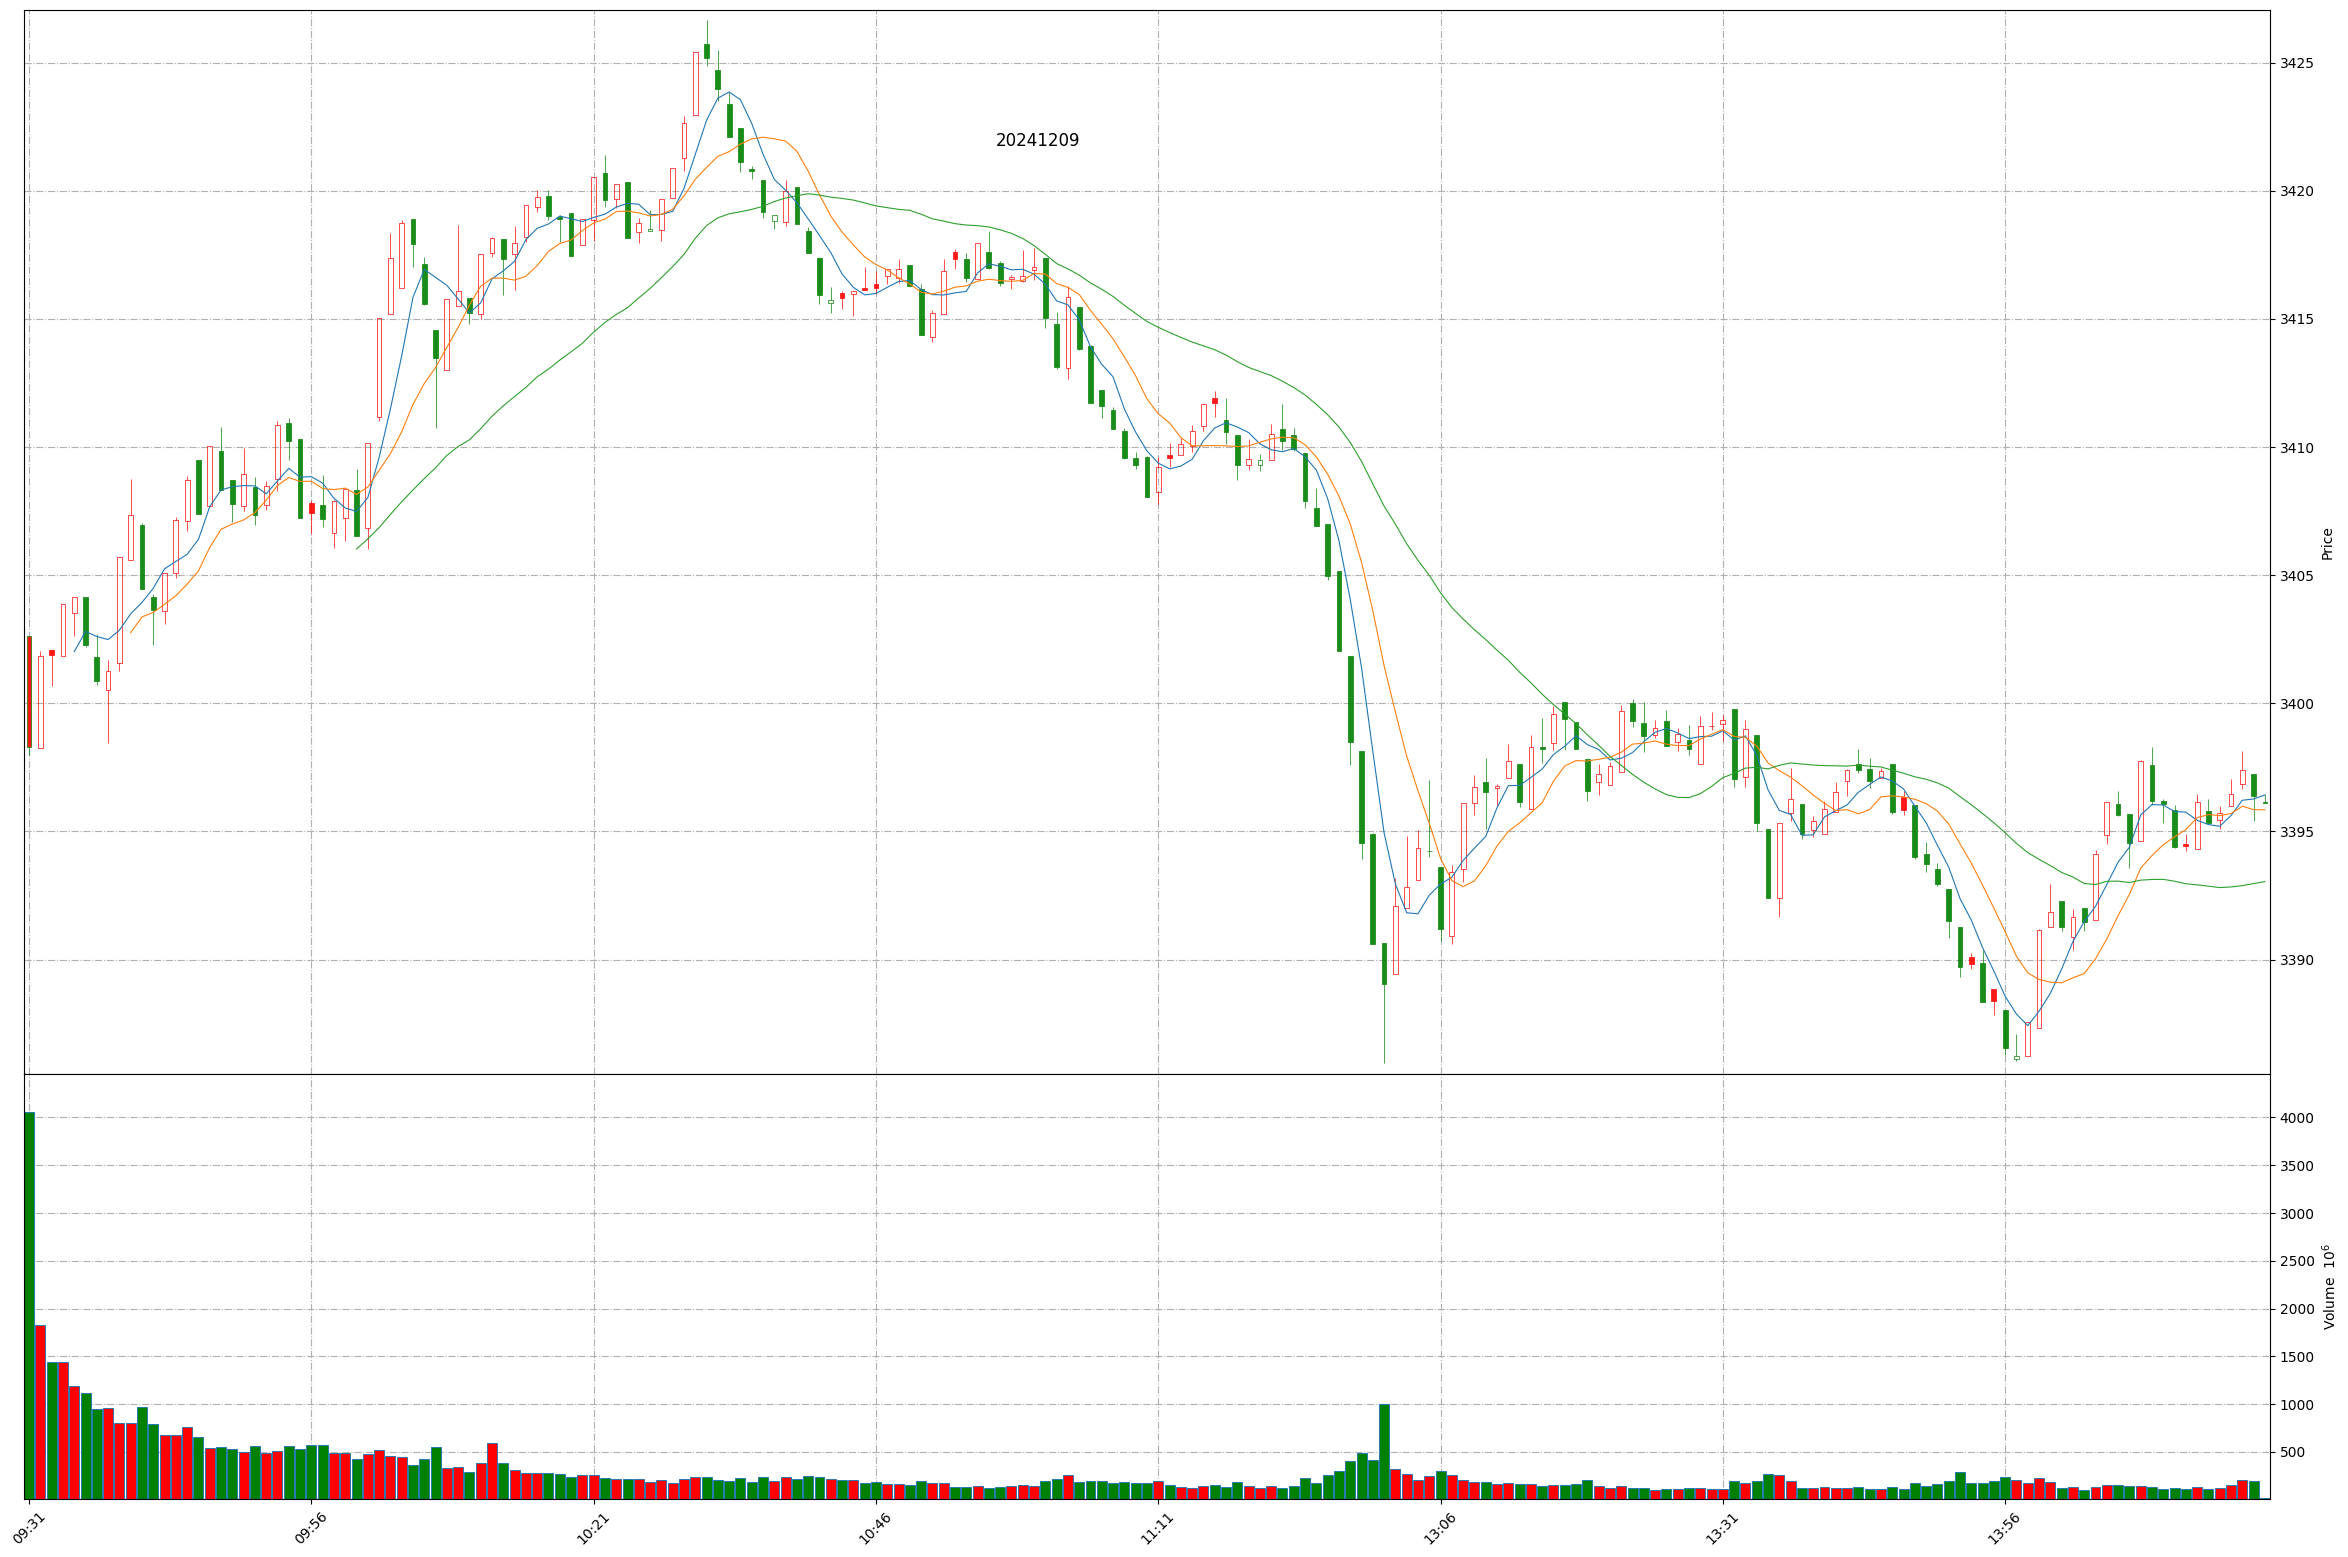
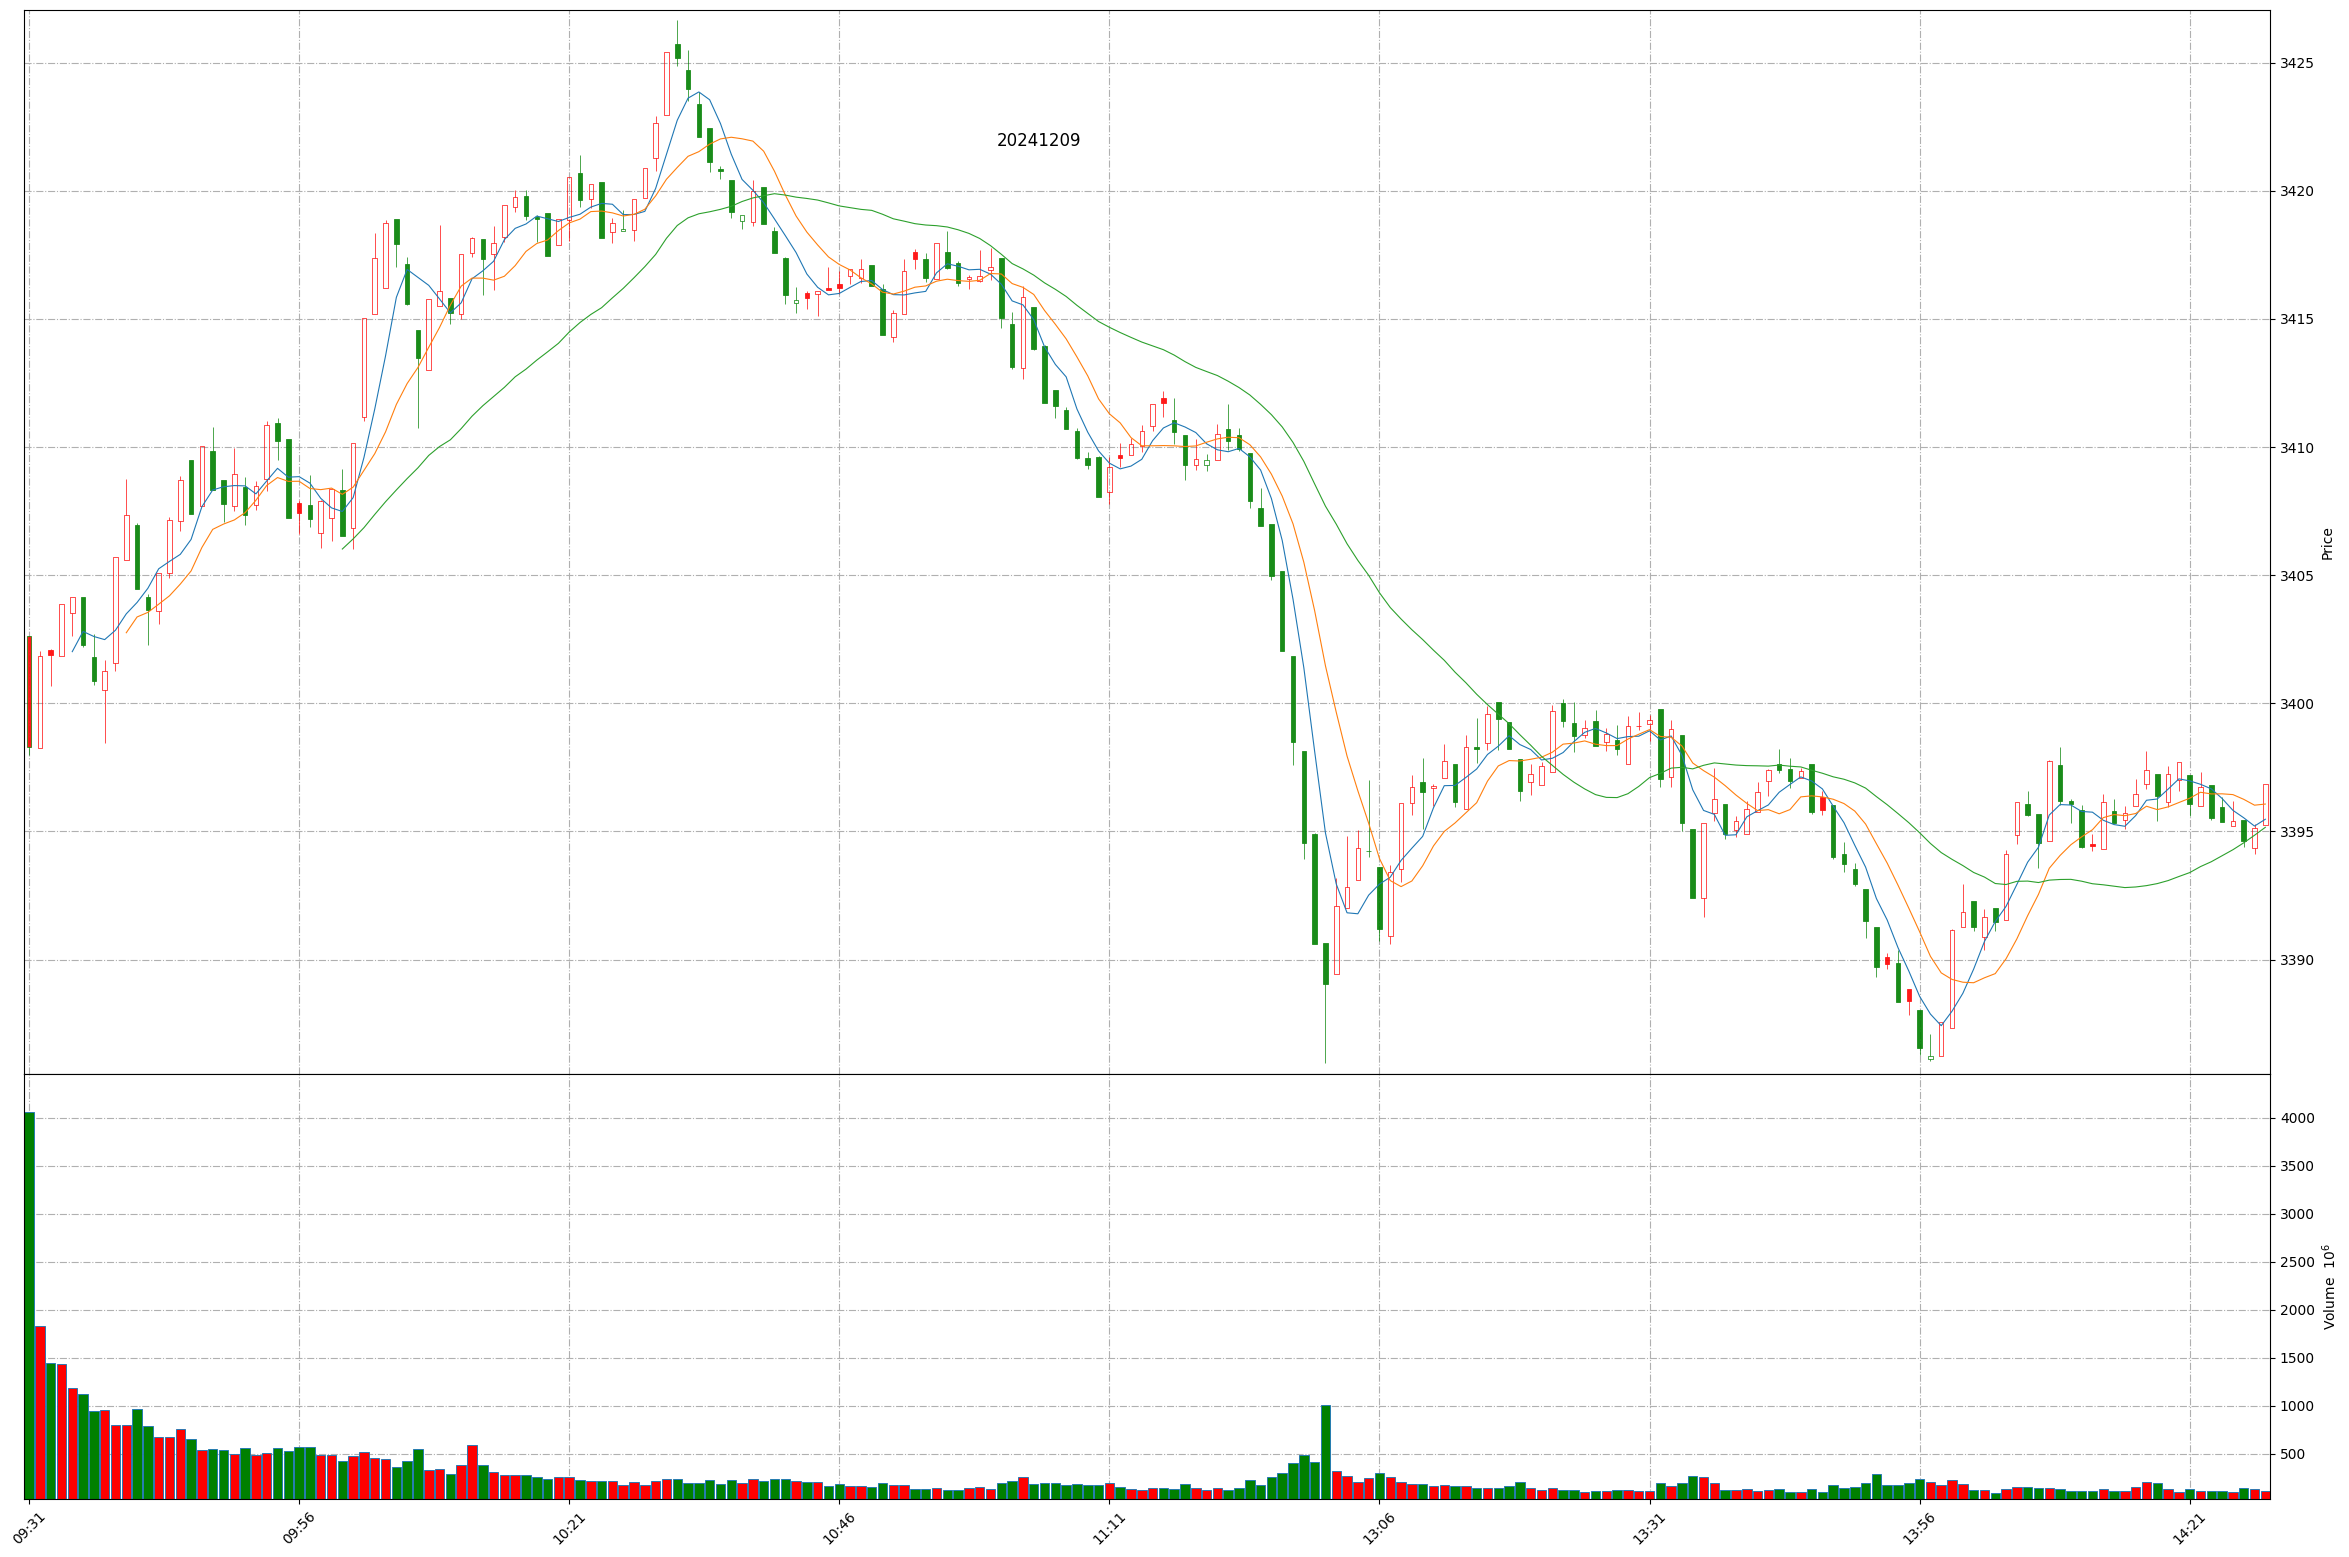
Github action update at 2024-12-09 14:28:02.

diff --git a/README.md b/README.md
@@ -1,11 +1,11 @@
 
 # Daily-A-share-market-quotes 每日 A 股指数（5min 更新）- 20241209
 
-### 上证指数 20241209 14:18
+### 上证指数 20241209 14:28
 ![](./fig/2024/12/20241209-sh000001.png)
 
-### 深证成指 20241209 14:18
+### 深证成指 20241209 14:28
 ![](./fig/2024/12/20241209-sz399001.png)
 
-### 北证50 20241209 14:18
+### 北证50 20241209 14:28
 ![](./fig/2024/12/20241209-bj899050.png)
